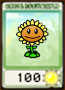
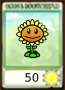
added disabling cards

Changed region(s): [[0.2462, 0.7778, 0.6462, 0.9333]]

diff --git a/GamePanel.java b/GamePanel.java
@@ -124,6 +124,26 @@ public class GamePanel extends JLayeredPane implements MouseMotionListener {
         super.paintComponent(g);
         g.drawImage(bgImage, 0, 0, null);
 
+        PlantCard sunflowerCard;
+        if (this.getSunScore() < 50){
+            sunflowerCard = new PlantCard(new ImageIcon(Objects.requireNonNull(this.getClass().getResource("images/cards/disabledSunflowerCard.png"))).getImage());
+        }else{
+            sunflowerCard = new PlantCard(new ImageIcon(Objects.requireNonNull(this.getClass().getResource("images/cards/sunflowerCard.png"))).getImage());
+        }
+        sunflowerCard.setAction((ActionEvent e) -> this.setCurrentPlantingBrush(GameScreen.PlantType.Sunflower));
+        sunflowerCard.setLocation(115, 8);
+        add(sunflowerCard, 0);
+
+        PlantCard peashooterCard;
+        if (this.getSunScore() < 100){
+            peashooterCard = new PlantCard(new ImageIcon(Objects.requireNonNull(this.getClass().getResource("images/cards/disabledPeashooterCard.png"))).getImage());
+        }else{
+            peashooterCard = new PlantCard(new ImageIcon(Objects.requireNonNull(this.getClass().getResource("images/cards/peashooterCard.png"))).getImage());
+        }
+        peashooterCard.setAction((ActionEvent e) -> this.setCurrentPlantingBrush(GameScreen.PlantType.Peashooter));
+        peashooterCard.setLocation(185, 8);
+        add(peashooterCard, 0);
+
         //draw peas
         for (int i = 0; i < 5; i++) {
             for (int j = 0; j < peaLanes.get(i).size(); j++) {

diff --git a/GameScreen.java b/GameScreen.java
@@ -34,15 +34,7 @@ public class GameScreen extends JFrame {
         getLayeredPane().add(gp, 0);
 
 
-        PlantCard sunflowerCard = new PlantCard(new ImageIcon(Objects.requireNonNull(this.getClass().getResource("images/cards/sunflowerCard.png"))).getImage());
-        sunflowerCard.setAction((ActionEvent e) -> gp.setCurrentPlantingBrush(PlantType.Sunflower));
-        sunflowerCard.setLocation(110, 8);
-        getLayeredPane().add(sunflowerCard, 0);
 
-        PlantCard peashooterCard = new PlantCard(new ImageIcon(Objects.requireNonNull(this.getClass().getResource("images/cards/peashooterCard.png"))).getImage());
-        peashooterCard.setAction((ActionEvent e) -> gp.setCurrentPlantingBrush(PlantType.Peashooter));
-        peashooterCard.setLocation(175, 8);
-        getLayeredPane().add(peashooterCard, 0);
 
 
         getLayeredPane().add(sun, 0);
@@ -67,7 +59,7 @@ public class GameScreen extends JFrame {
 
         catch (Exception ex)
         {
-            System.out.println("Error with playing sound.");
+            System.out.println("Error with playing sound. (check for correct path)");
             ex.printStackTrace();
 
         }
